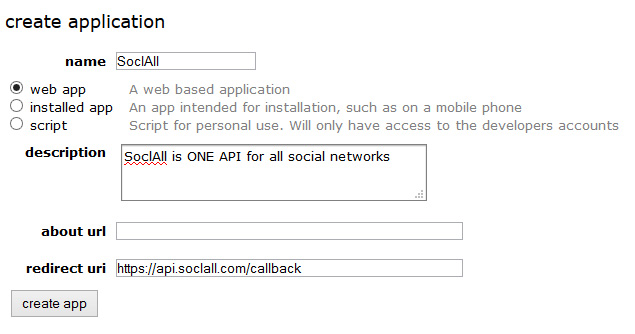
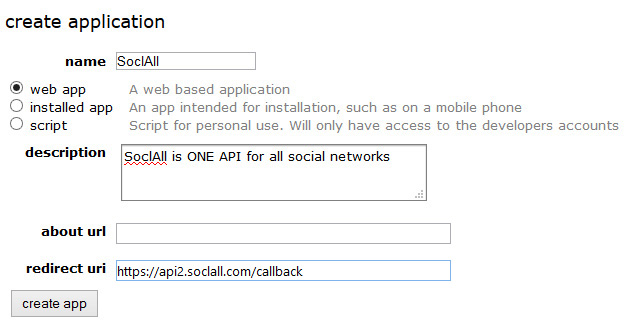
update doc

diff --git a/docs/user-guide/google.md b/docs/user-guide/google.md
@@ -1,21 +1,20 @@
 __Để đăng kí một ứng dụng trên Google, vui lòng làm theo các bước sau:__
 
 1. Đăng nhập vào [Google Account](https://accounts.google.com/) và đi đến trang [Google Developer](https://console.developers.google.com/) để tạo ứng dụng
-2. Nhấn nút "Create Project" và điền tên ứng dụng (Project Name), mã ứng dụng (Project ID). Sau khi điền xong, nhấn nút "Create".
+2. Nhấn nút "Create Project" và điền tên ứng dụng (Project name). Sau khi điền xong, nhấn nút "Create".
     <div class="soclall-br"></div>
     ![Google : Create Form](/img/google-2-create-form.JPG)
     <div class="soclall-br"></div>
-3. Sau khi ứng dụng được tạo thành công, chọn mục "Consent screen" và điền những thông tin cơ bản. Sau khi điền xong, nhấn nút "Save".
+3. Sau khi ứng dụng được tạo thành công, chọn mục "Credentials" và chọn tab "OAuth consent screen", điền những thông tin cơ bản. Sau khi điền xong, nhấn nút "Save".
     <div class="soclall-br"></div>
     ![Google : Consent Screen](/img/google-3-consent-screen.jpg)
     <div class="soclall-br"></div>
-4. Sau đó, chọn mục "Credentials", nhấn nút "Create new Client ID" và điền thông tin bên dưới
-    * Application Type: chọn __Web application__
+4. Sau đó, chọn tab "Credentials", nhấn nút "Add credentials" và chọn "OAuth 2.0 client ID". Tiếp theo đó, chọn "Web application" và điền thông tin bên dưới:
     * Authorized Javascript Origins: __http://api2.soclall.com/__
     * Authorized Redirect Uris: 
         - __http://api2.soclall.com/callback__
         - __https://api2.soclall.com/callback__
-5. Sau đó nhấn nút "Create Client ID"
+5. Sau đó nhấn nút "Create"
     <div class="soclall-br"></div>
     ![Google : Credentials](/img/google-4-credentials.JPG)
     <div class="soclall-br"></div>
@@ -24,7 +23,7 @@ __Để đăng kí một ứng dụng trên Google, vui lòng làm theo các bư
     <div class="soclall-br"></div>
     ![Google : Enable APIs](/img/google-5-apis.jpg)
     <div class="soclall-br"></div>
-8. Sau khi tạo thành công Client Id, bạn có thể thấy "Client ID" và "Client Secret" và lấy chúng để nhập vào Thiết lập ứng dụng Google trên SoclAll.
+8. Sau khi tạo thành công Client Id, tại trang "Credentials", nhấn chọn client ID vừa tạo, bạn có thể thấy "Client ID", "Client Secret" và lấy chúng để nhập vào Thiết lập ứng dụng Google trên SoclAll.
     <div class="soclall-br"></div>
     ![Google : Client Info](/img/google-5-client-info.JPG)
     <div class="soclall-br"></div>
